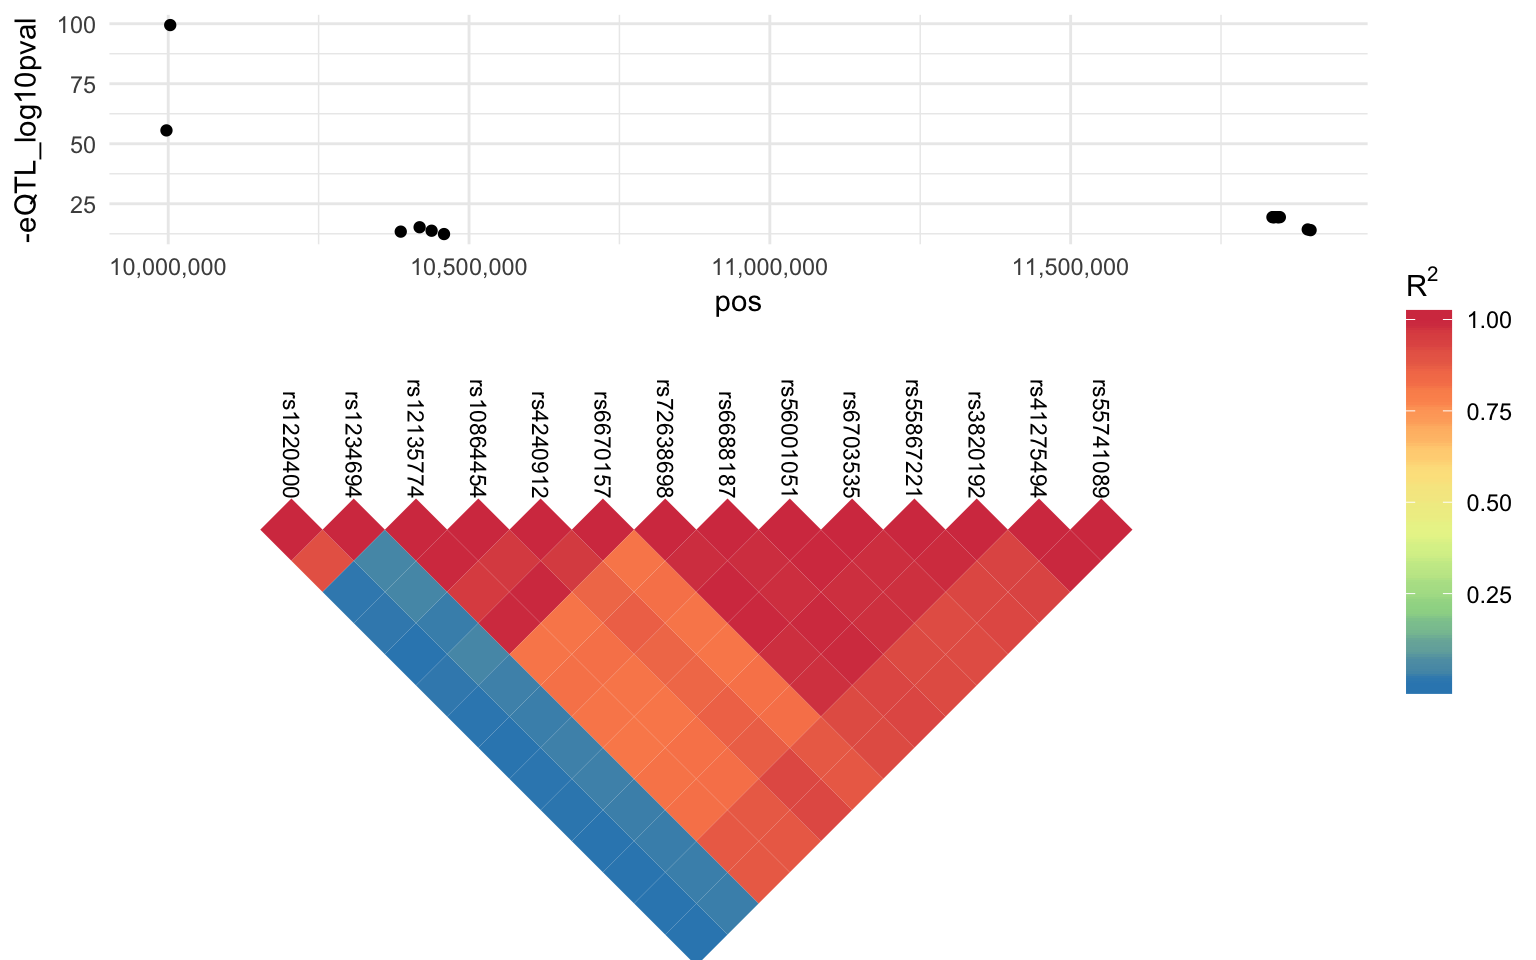
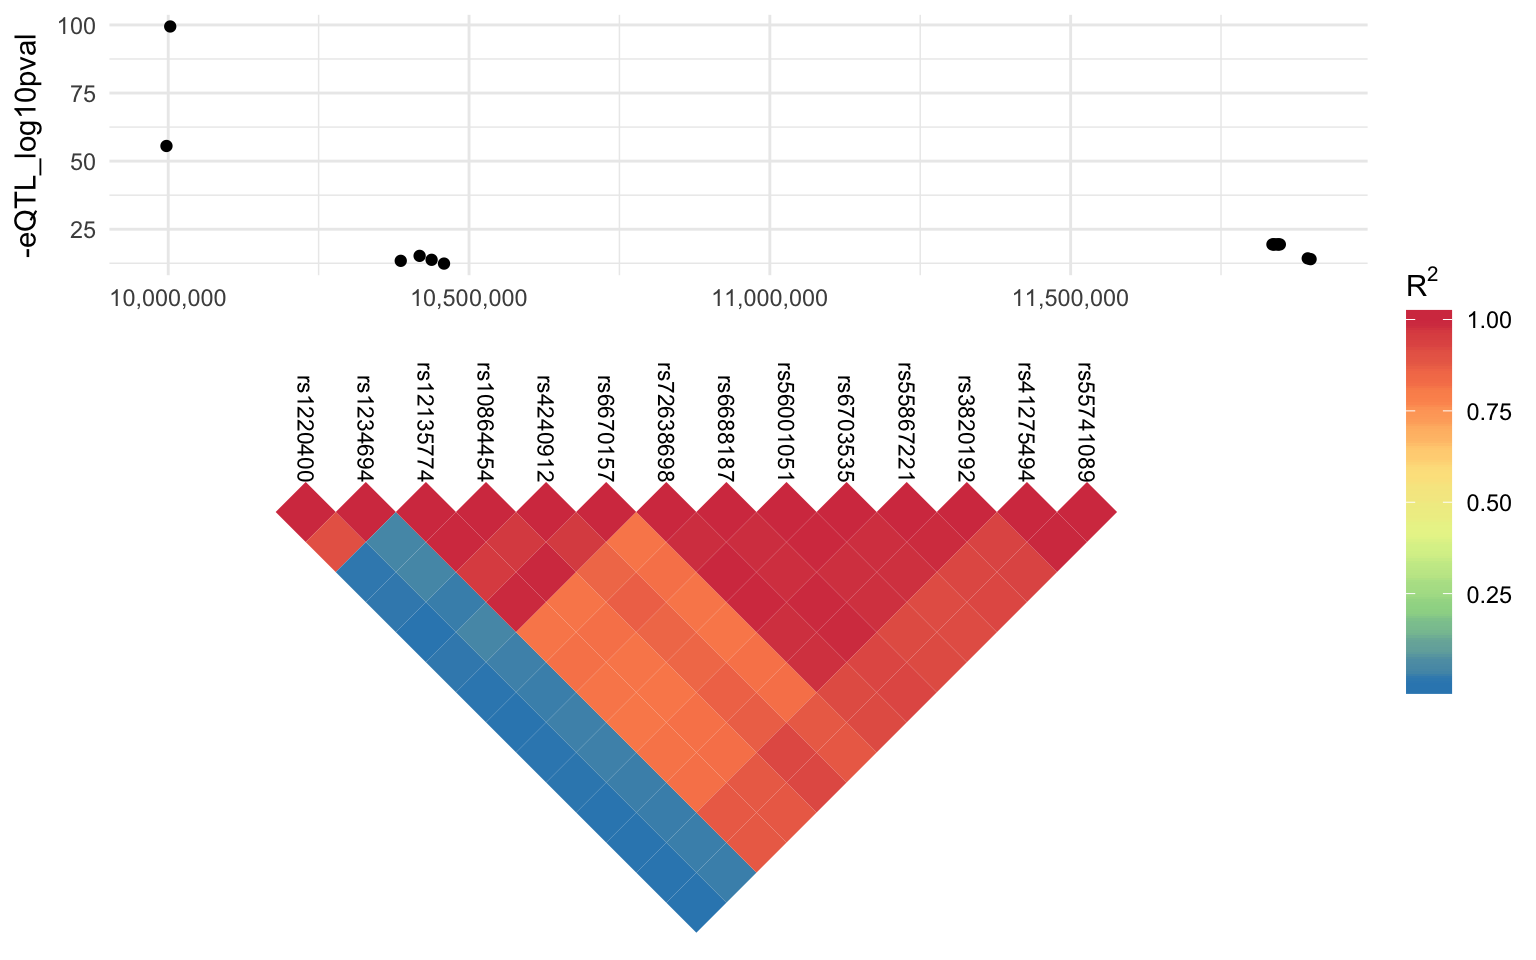
removed x-axis title from manhatan plot

diff --git a/public/post/plotting-manhattan-plots-and-ld-matrices-together/index.html b/public/post/plotting-manhattan-plots-and-ld-matrices-together/index.html
@@ -1206,10 +1206,11 @@ bottom_part = arrangeGrob(plot2_clean,vp = viewport(angle = -45))
 
 ## overlap the empty part of the LD matrix (which requires theme_minimal) and
 ## included a bit of space at the bottom
-whole_plot = arrangeGrob(plot1,
+whole_plot = arrangeGrob(plot1 +
+                           theme(axis.title.x = element_blank()),
                          textGrob(&quot;&quot;),
                          bottom_part,textGrob(&quot;&quot;),
-                         ncol =1,heights = c(5,-2,10,1.5))
+                         ncol =1,heights = c(5,-2,10,2))
 grid.newpage()
 grid.arrange(whole_plot,legend,nrow = 1,widths = c(9,1)) </code></pre>
 <p><img src="/post/2018-04-10-plotting-manhattan-plots-and-ld-matrices-together_files/figure-html/done-1.png" width="768" /></p>

diff --git a/content/post/2018-04-10-plotting-manhattan-plots-and-ld-matrices-together.html b/content/post/2018-04-10-plotting-manhattan-plots-and-ld-matrices-together.html
@@ -111,10 +111,11 @@ bottom_part = arrangeGrob(plot2_clean,vp = viewport(angle = -45))
 
 ## overlap the empty part of the LD matrix (which requires theme_minimal) and
 ## included a bit of space at the bottom
-whole_plot = arrangeGrob(plot1,
+whole_plot = arrangeGrob(plot1 +
+                           theme(axis.title.x = element_blank()),
                          textGrob(&quot;&quot;),
                          bottom_part,textGrob(&quot;&quot;),
-                         ncol =1,heights = c(5,-2,10,1.5))
+                         ncol =1,heights = c(5,-2,10,2))
 grid.newpage()
 grid.arrange(whole_plot,legend,nrow = 1,widths = c(9,1)) </code></pre>
 <p><img src="/post/2018-04-10-plotting-manhattan-plots-and-ld-matrices-together_files/figure-html/done-1.png" width="768" /></p>
